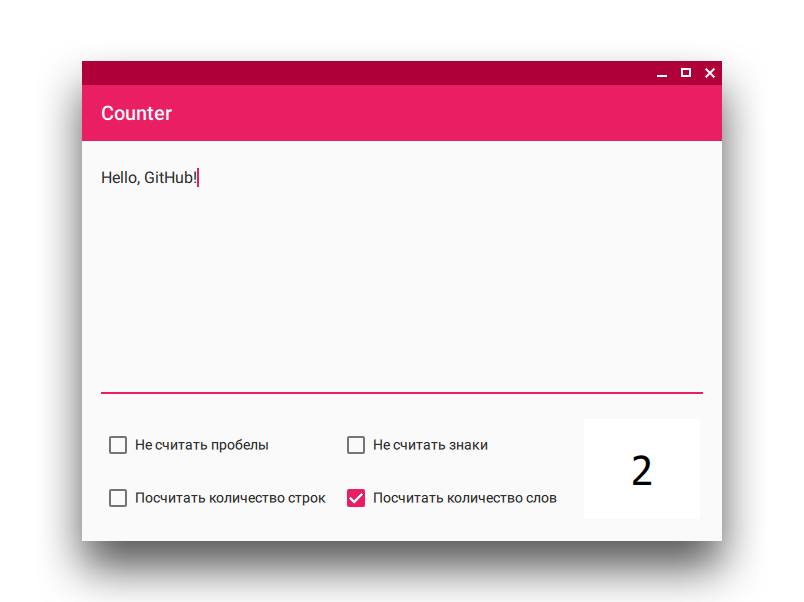
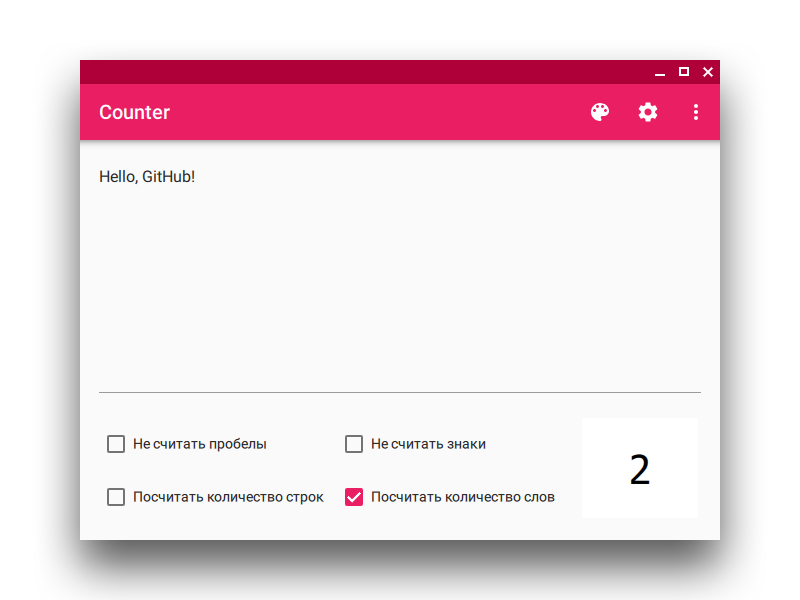
Update demo screenshot

diff --git a/AppBar.qml b/AppBar.qml
@@ -32,7 +32,7 @@ ToolBar {
 
         Text {
             id: headerText
-            text: "Counter v2.5.1"
+            text: "Counter"/*+" v2.5.1"*/
             color: "white"
             font {
                 family: robotoMediumFont.name
@@ -131,7 +131,8 @@ ToolBar {
 
         Menu {
             id: moreButtonContextMenu
-            Action { text: qsTr("О программе"); }
+            Action { text: qsTr("Язык"); icon.source: "images/language-24dp.png"; }
+            Action { text: qsTr("О программе") }
         }
     }
 
